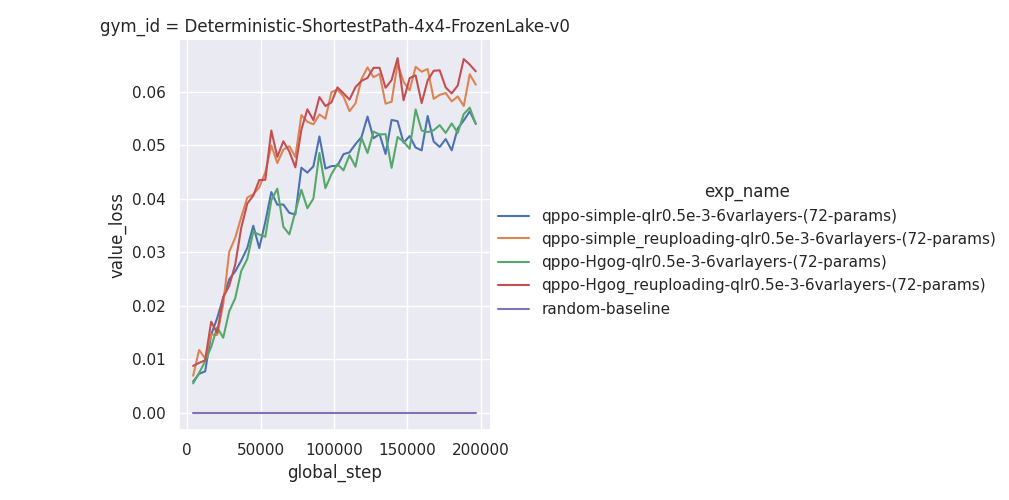
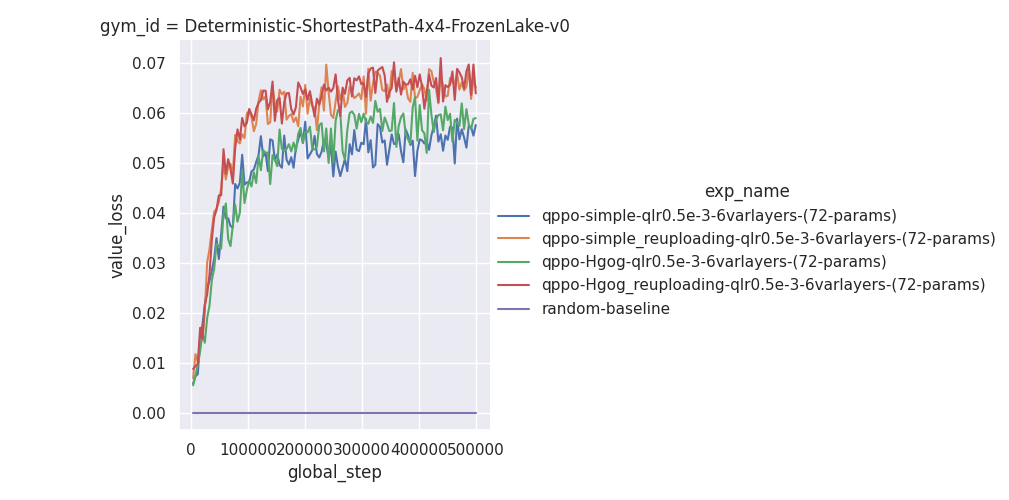
new plots

diff --git a/test_log.py b/test_log.py
@@ -224,6 +224,6 @@ exp_names = [
 ]
 seeds = [10, 20, 30]
 stepsize = 4 * 128 * 8
-max_steps = 200000
+max_steps = 500000
 
 plot_test_avg(results_dir, plot_dir, gym_id, exp_names, seeds, stepsize, max_steps)
